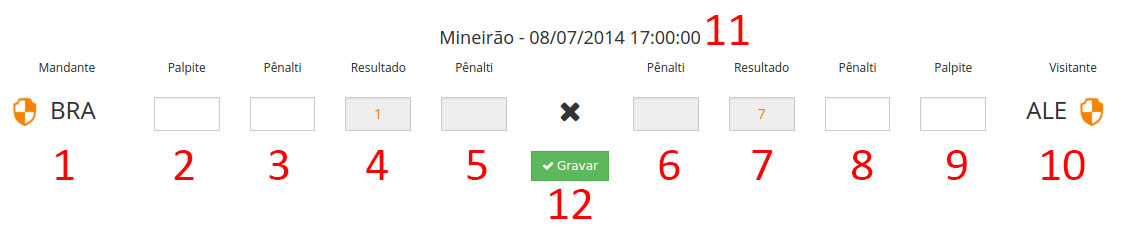
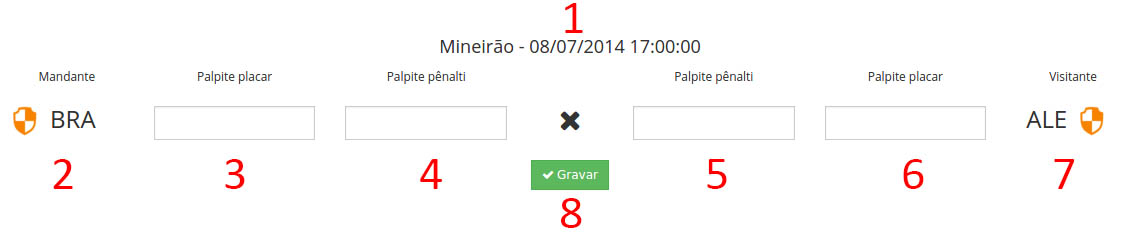
Correção da ajuda e retirado os campo de resultados

diff --git a/resources/assets/js/arena.js b/resources/assets/js/arena.js
@@ -208,6 +208,7 @@ function fnSistemaController($scope, $http) {
     }
 
     $scope.onLoadPalpite = function(){
+        $scope.gravado = false;
         $scope.getUsuarioBolao();
     }
 
@@ -224,12 +225,6 @@ function fnSistemaController($scope, $http) {
             return false;
         }
 
-        if(palpite.penalti){
-            if( palpite.palpite_penalti_casa != '' || palpite.palpite_penalti_visitante != '' ){
-                return false;
-            }
-        }
-
         var dadosPost = {
             "_token": palpite._token,
             "id_bolao": $scope.palpite.id_bolao,
@@ -244,7 +239,9 @@ function fnSistemaController($scope, $http) {
 
         $http.post('/palpite/save_palpite', dadosPost)
         .success(function(dados){
+            $scope.gravado = true;
             palpite.id_palpite = dados.id_palpite;
+            angular.element("#box-palpite-" + palpite.id_partida).removeClass("inserido");
             angular.element("#box-palpite-" + palpite.id_partida).addClass("gravado");
         });
 

diff --git a/resources/assets/sass/palpite/main.scss b/resources/assets/sass/palpite/main.scss
@@ -53,6 +53,10 @@
         background-color: lighten($cor-success, 35%);
     }
 
+    &.inserido {
+        background-color: lighten($cor-primaria, 35%);
+    }
+
     p {
         margin: 0;
         line-height: 28px;

diff --git a/resources/views/site/palpite.blade.php b/resources/views/site/palpite.blade.php
@@ -8,14 +8,6 @@ Palpites
 <div class="container" ng-init="onLoadPalpite()">
     <div class="row">
         <div class="col-xs-24">
-            <div id="avisoResultado" class="alert @{{avisoResultado.class}} alerta-oculto">
-                <button type="button" class="close" data-dismiss="alert" aria-label="Close">
-                    <span aria-hidden="true">×</span>
-                </button>
-                <div>@{{avisoResultado.mensagem}}</div>
-            </div>
-        </div>
-        <div class="col-xs-24">
             <div class="alert alert-info">
                 <button type="button" class="close" data-dismiss="alert" aria-label="Close">
                     <span aria-hidden="true">×</span>
@@ -44,14 +36,14 @@ Palpites
                     <dir-pagination-controls max-size="5" direction-links="true" boundary-links="true" pagination-id="idListalistaPalpites" class="sem-margin"></dir-pagination-controls>
                 </div>
             </div>
-            <h2 class="text-primary">Partidas <small><a href="" title="clicando aqui" data-toggle="modal" data-target="#mdAjudaPalpite">Ajuda</a></small></h2>
+            <h2 class="text-primary">Partidas <small class="pull-right"><a href="" title="clicando aqui" data-toggle="modal" data-target="#mdAjudaPalpite"><i class="fa fa-question-circle"></i> Ajuda</a></small></h2>
             <div dir-paginate="palpite in listaPalpites | filter:filtroPartida | itemsPerPage:palpite.itemPorPagina" pagination-id="idListalistaPalpites">
                 <div class="row">
                     <div class="col-xs-24">
                         <hr>
                     </div>
                 </div>
-                <div class="row box-palpite" id="box-palpite-@{{palpite.id_partida}}">
+                <div class="row box-palpite" id="box-palpite-@{{palpite.id_partida}}" ng-class="(palpite.id_palpite>0 && !gravado) ? 'inserido' : ''">
                     <div class="clearfix">
                         <input type="hidden" name="id_palpite" ng-model="palpite.id_palpite" ng-init="palpite.id_palpite=palpite.id_palpite">
                         <input type="hidden" name="_token" ng-model="palpite._token" ng-init="palpite._token='{{csrf_token()}}'">
@@ -59,29 +51,21 @@ Palpites
                         <div class="col-xs-24">
                             <div class="row text-center">
                                 <div class="col-xs-24 col-md-3"><small>Mandante</small></div>
-                                <div class="col-xs-24 col-md-2"><small>Palpite</small></div>
-                                <div class="col-xs-24 col-md-2"><small>Pênalti</small></div>
-                                <div class="col-xs-24 col-md-2"><small>Resultado</small></div>
-                                <div class="col-xs-24 col-md-2"><small>Pênalti</small></div>
+                                <div class="col-xs-24 col-md-4"><small>Palpite placar</small></div>
+                                <div class="col-xs-24 col-md-4"><small>Palpite pênalti</small></div>
                                 <div class="col-xs-24 col-md-2">&nbsp;</div>
-                                <div class="col-xs-24 col-md-2"><small>Pênalti</small></div>
-                                <div class="col-xs-24 col-md-2"><small>Resultado</small></div>
-                                <div class="col-xs-24 col-md-2"><small>Pênalti</small></div>
-                                <div class="col-xs-24 col-md-2"><small>Palpite</small></div>
+                                <div class="col-xs-24 col-md-4"><small>Palpite pênalti</small></div>
+                                <div class="col-xs-24 col-md-4"><small>Palpite placar</small></div>
                                 <div class="col-xs-24 col-md-3"><small>Visitante</small></div>
                             </div>
                             <br>
                         </div>
                         <div class="col-xs-24 col-md-3 text-center" title="@{{palpite.equipe_casa_nome}}"><img src="@{{palpite.equipe_casa_brasao}}" class="brasao xs"> <h3 class="abreviado-brasao">@{{palpite.equipe_casa_abreviado}}</h3></div>
-                        <div class="col-xs-24 col-md-2"><input type="text" name="palpite_casa" ng-model="palpite.palpite_casa" ng-init="palpite.palpite_casa=palpite.palpite_casa" class="form-control text-center"></div>
-                        <div class="col-xs-24 col-md-2"><input type="text" name="palpite_penalti_casa" ng-model="palpite.palpite_penalti_casa" ng-init="palpite.palpite_penalti_casa=palpite.palpite_penalti_casa" class="form-control text-center" ng-disabled="!palpite.penalti"></div>
-                        <div class="col-xs-24 col-md-2"><input type="text" name="placar_casa" ng-model="palpite.placar_casa" ng-init="palpite.placar_casa=palpite.resultado_casa" class="form-control text-center" disabled="disabled"></div>
-                        <div class="col-xs-24 col-md-2"><input type="text" name="penalti_casa" ng-model="palpite.penalti_casa" ng-init="palpite.penalti_casa=palpite.resultado_penalti_casa" class="form-control text-center" disabled="disabled"></div>
+                        <div class="col-xs-24 col-md-4"><input type="text" maxlength="2" name="palpite_casa" ng-model="palpite.palpite_casa" ng-init="palpite.palpite_casa=palpite.palpite_casa" class="form-control text-center"></div>
+                        <div class="col-xs-24 col-md-4"><input type="text" maxlength="2" name="palpite_penalti_casa" ng-model="palpite.palpite_penalti_casa" ng-init="palpite.palpite_penalti_casa=palpite.palpite_penalti_casa" class="form-control text-center" ng-disabled="!palpite.penalti"></div>
                         <div class="col-xs-24 col-md-2 text-center"><i class="fa fa-times fa-2x"></i></div>
-                        <div class="col-xs-24 col-md-2"><input type="text" name="penalti_visitante" ng-model="palpite.penalti_visitante" ng-init="palpite.penalti_visitante=palpite.resultado_penalti_visitante" class="form-control text-center" disabled="disabled"></div>
-                        <div class="col-xs-24 col-md-2"><input type="text" name="placar_visitante" ng-model="palpite.placar_visitante" ng-init="palpite.placar_visitante=palpite.resultado_visitante" class="form-control text-center" disabled="disabled"></div>
-                        <div class="col-xs-24 col-md-2"><input type="text" name="palpite_penalti_visitante" ng-model="palpite.palpite_penalti_visitante" ng-init="palpite.palpite_penalti_visitante=palpite.palpite_penalti_visitante" class="form-control text-center" ng-disabled="!palpite.penalti"></div>
-                        <div class="col-xs-24 col-md-2"><input type="text" name="palpite_visitante" ng-model="palpite.palpite_visitante" ng-init="palpite.palpite_visitante=palpite.palpite_visitante" class="form-control text-center"></div>
+                        <div class="col-xs-24 col-md-4"><input type="text" maxlength="2" name="palpite_penalti_visitante" ng-model="palpite.palpite_penalti_visitante" ng-init="palpite.palpite_penalti_visitante=palpite.palpite_penalti_visitante" class="form-control text-center" ng-disabled="!palpite.penalti"></div>
+                        <div class="col-xs-24 col-md-4"><input type="text" maxlength="2" name="palpite_visitante" ng-model="palpite.palpite_visitante" ng-init="palpite.palpite_visitante=palpite.palpite_visitante" class="form-control text-center"></div>
                         <div class="col-xs-24 col-md-3 text-center" title="@{{palpite.equipe_visitante_nome}}"><h3 class="abreviado-brasao">@{{palpite.equipe_visitante_abreviado}}</h3> <img src="@{{palpite.equipe_visitante_brasao}}" class="brasao xs"></div>
                     </div>
                 {{-- </div>
@@ -282,25 +266,45 @@ Palpites
                     <div class="text-center">Veja o regulamento <strong><a href="" title="clicando aqui" data-dismiss="modal" data-toggle="modal" data-target="#mdRegulamentoPalpite">clicando aqui</a></strong></div>
                 </div>
                 <div class="figura-ajuda">
-                    <img src="{{url('img/ajuda.jpg')}}" alt="Figura Ajuda">
+                    <small>Figura 1</small><img src="{{url('img/ajuda.jpg')}}" alt="Figura Ajuda">
                 </div>
                 <div class="row">
                 <div class="col-xs-24 col-md-20 col-md-offset-2">
-                        <h3 class="text-primary">Como dar seu palpite</h3>
+                        <h3 class="text-primary">Como dar seu palpite <small>Figura 1</small></h3>
                         <h4 class="text-secundary">Para carregar as partidas para dar o palpite selecione um bolão no campo "Bolão" e as partidas irão ser carregadas automaticamente</h4>
                         <ol>
+                            <li>Informação de local e data da partida;</li>
                             <li>Equipe mandante;</li>
                             <li>Campo para dar o seu palpite de gols da equipe mandante (preenchimento obrigatório);</li>
                             <li>Campo de palpite para os pênaltis do mandante. Este campo só estará habilitado caso a partida possa ser decidida nos pênaltis, caso contrário ficará desabilitado, quando habilitado seu preenchimento <strong>NÃO</strong> é obrigatório;</li>
-                            <li>Campo com o placar do mandante na partida, todo o placar já se inicia com 0;</li>
-                            <li>Campo com os pênaltis do mandante, caso a partida se decida nos pênaltis;</li>
-                            <li>Este campo segue a mesma característica do campo anterior, mas é referente ao time visitante;</li>
-                            <li>Este campo é para o placar do visitante na partida e como ao mandante se inicia com 0;</li>
-                            <li>Campo para preencher os pênaltis do visitante, como item 3, só estará habilitado caso a partida possa ser decidida nos pênaltis;</li>
+                            <li>Campo para preencher os pênaltis do visitante, como item 4, só estará habilitado caso a partida possa ser decidida nos pênaltis;</li>
                             <li>Campo para dar palpite do placar do visitante (preenchimento obrigatório);</li>
                             <li>Equipe visitante;</li>
-                            <li>Informação de local e data da partida;</li>
                             <li>Botão para gravar o palpite, após preencher e clicar nesse botão o fundo da linha da partida ficará verde claro para informar que foi gravado com sucesso;</li>
+                        </ol>
+                    </div>
+                </div>
+                <hr>
+                <div class="figura-ajuda">
+                    <small>Figura 2</small><img src="{{url('img/ajuda-gravado.jpg')}}" alt="Figura Ajuda">
+                </div>
+                <div class="row">
+                <div class="col-xs-24 col-md-20 col-md-offset-2">
+                    <h3 class="text-primary">Palpite Gravado <small>Figura 2</small></h3>
+                        <ol>
+                            <li>Logo após clicar no botão gravar essa será a aparência se o palpite for gravado com sucesso;</li>
+                        </ol>
+                    </div>
+                </div>
+                <hr>
+                <div class="figura-ajuda">
+                    <small>Figura 3</small><img src="{{url('img/ajuda-inserido.jpg')}}" alt="Figura Ajuda">
+                </div>
+                <div class="row">
+                <div class="col-xs-24 col-md-20 col-md-offset-2">
+                    <h3 class="text-primary">Palpite já Gravado <small>Figura 3</small></h3>
+                        <ol>
+                            <li>Quando as partidas forem carregadas e tiverem essa aparência é porque o palpite já está registrado no sistema;</li>
                         </ol>
                     </div>
                 </div>

diff --git a/resources/views/site/ponto.blade.php b/resources/views/site/ponto.blade.php
@@ -1,0 +1,46 @@
+@extends('layouts.arena')
+
+@section('titulo-pagina')
+Pontos
+@endsection
+
+@section('conteudo')
+<div class="container-fluid" ng-init="onLoadPonto()">
+    <div class="row">
+        <div class="col-xs-24 col-md-12">
+            <h3 class="text-primary">Rodada Atual</h3>
+        </div>
+        <div class="col-xs-24 col-md-12">
+            <h3 class="text-primary">Histórico</h3>
+        </div>
+    </div>
+</div>
+@endsection
+
+@section('modais-sistema')
+<div class="modal fade" id="mdConfirmaDelete" tabindex="-1" role="dialog" aria-labelledby="mdConfirmaDeleteLabel">
+    <div class="modal-dialog" role="document">
+        <div class="modal-content">
+            <div class="modal-header modal-danger">
+                <button type="button" class="close" data-dismiss="modal" aria-label="Close"><span aria-hidden="true">&times;</span></button>
+                <h4 class="modal-title" id="mdConfirmaDeleteLabel">Confirma Exclusão</h4>
+            </div>
+            <div class="modal-body">
+                <h5>Deseja mesmo deletar a competição: <span class="text-danger texto-destaque">@{{mdResultado.nome}}</span></h5>
+            </div>
+            <div class="modal-footer">
+                <button type="button" class="btn btn-default pull-left" data-dismiss="modal">Não</button>
+                <button type="button" class="btn btn-danger pull-right" ng-click="deleteResultado(mdResultado)">Sim</button>
+            </div>
+        </div>
+    </div>
+</div>
+@endsection
+
+@section('css-especifico')
+<link rel="stylesheet" href="{{ elixir('css/palpite.css') }}">
+@endsection
+
+@section('js-especifico')
+<script src="{{ elixir('js/all-arena.js') }}"></script>
+@endsection

diff --git a/resources/views/site/arena.blade.php b/resources/views/site/arena.blade.php
@@ -338,7 +338,7 @@ Arena
                                 <label for="permissao-moderado" class="control-label text-warning"><input type="radio" id="permissao-moderado" name="permissao" ng-model="novoBolao.permissao" class="limpar" value="moderado" required> <i class="fa fa-key"></i> Moderado</label>
                             </div>
                             <div class="form-group col-xs-24 col-md-8">
-                                <label for="permissao-privado" class="control-label text-danger"><input type="radio" id="permissao-privado" name="permissao" ng-model="novoBolao.permissao" class="limpar" value="privado" required> <i class="fa fa-lock"></i> Privado</label>
+                                <label for="permissao-privado" class="control-label text-danger"><input type="radio" id="permissao-privado" name="permissao" ng-model="novoBolao.permissao" class="limpar" value="privado" disabled="disabled"> <i class="fa fa-lock"></i> Privado</label>
                             </div>
                         </div>
                     </div>

diff --git a/resources/views/layouts/arena.blade.php b/resources/views/layouts/arena.blade.php
@@ -35,6 +35,7 @@
                     <div class="collapse navbar-collapse" id="bs-example-navbar-collapse-1">
                         <ul class="nav navbar-nav navbar-left">
                             <li><a href="{{url('/palpite')}}">Palpites</a></li>
+                            <li><a href="{{url('/palpite/ponto')}}">Pontuação</a></li>
                         </ul>
                         <ul class="nav navbar-nav navbar-right">
                             <li><a href="{{url('/sair')}}">Sair</a></li>

diff --git a/app/Http/routes.php b/app/Http/routes.php
@@ -51,6 +51,7 @@ Route::group(['prefix' => '/bolao', 'middleware' => 'auth'], function () {
 
 Route::group(['prefix' => '/palpite', 'middleware' => 'auth'], function () {
     Route::get('/', 'PalpiteController@index');
+    Route::get('/ponto', 'PalpiteController@indexPonto');
     Route::get('/palpites_bolao/{id}', 'PalpiteController@getPalpitesBolao')->where('id', '[0-9]+');
     Route::post('/save_palpite', 'PalpiteController@savePalpite');
 });

diff --git a/app/Http/Controllers/PalpiteController.php b/app/Http/Controllers/PalpiteController.php
@@ -17,6 +17,11 @@ class PalpiteController extends Controller
         return view('site.palpite');
     }
 
+    public function indexPonto()
+    {
+        return view('site.ponto');
+    }
+
     public function getPalpitesBolao($id)
     {
         $bolao = Bolao::find($id);
